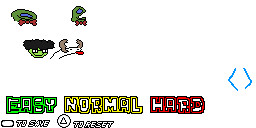
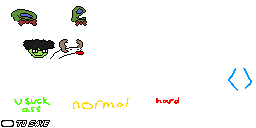
difficulty select stuff and loading screen
just need to add the title screen and maybe redo the fonts to be different colour and yeah

Changed region(s): [[0.0, 0.75, 0.8125, 1.0]]

diff --git a/src/menu.c b/src/menu.c
@@ -422,12 +422,12 @@ void Menu_Tick(void)
 			
 			static const fixed_t logo_scales[] = {
 				FIXED_DEC(1,1),
-				FIXED_DEC(101,100),
-				FIXED_DEC(102,100),
-				FIXED_DEC(103,100),
-				FIXED_DEC(105,100),
-				FIXED_DEC(110,100),
-				FIXED_DEC(97,100),
+				FIXED_DEC(1,1),
+				FIXED_DEC(1,1),
+				FIXED_DEC(1,1),
+				FIXED_DEC(1,1),
+				FIXED_DEC(1,1),
+				FIXED_DEC(1,1),
 			};
 			fixed_t logo_scale = logo_scales[(menu.page_state.title.logo_bump * 24) >> FIXED_SHIFT];
 			u32 x_rad = (logo_scale * (176 >> 1)) >> FIXED_SHIFT;

diff --git a/src/loadscr.c b/src/loadscr.c
@@ -24,8 +24,8 @@ void LoadScr_Start(void)
 	Gfx_Flip();
 	
 	//Load loading screen texture
-	RECT loading_src = {0, 0, 255, 255};
-	RECT loading_dst = {(screen.SCREEN_WIDTH - 300) >> 1, (screen.SCREEN_HEIGHT - 224) >> 1, 300, 224};
+	RECT loading_src = {  0,  0,255,240};
+	RECT loading_dst = {  0,  0,320,240};
 	Gfx_Tex loading_tex;
 	Gfx_SetClear(202, 255, 77);
 	Gfx_LoadTex(&loading_tex, IO_Read("\\MENU\\LOADING.TIM;1"), GFX_LOADTEX_FREE);

diff --git a/src/stage.c b/src/stage.c
@@ -1450,7 +1450,9 @@ static void Stage_LoadState(void)
 		drawshit = 0;
 		if (!stage.prefs.debug)
 			stage.freecam = 0;
+		stage.player_state[i].refresh_miss = false;
 		stage.player_state[i].miss = 0;
+		stage.player_state[i].refresh_accuracy = false;
 		stage.player_state[i].accuracy = 0;
 		stage.player_state[i].max_accuracy = 0;
 		stage.player_state[i].min_accuracy = 0;

diff --git a/src/save.c b/src/save.c
@@ -13,7 +13,7 @@
 				  
 	        //HAS to be BASCUS-scusid,somename
 #define savetitle "bu00:BASCUS-01031loggo"
-#define savename  "SecretChristmasPort"
+#define savename  "LoggoPSX"
 
 static const u8 saveIconPalette[32] = 
 {
